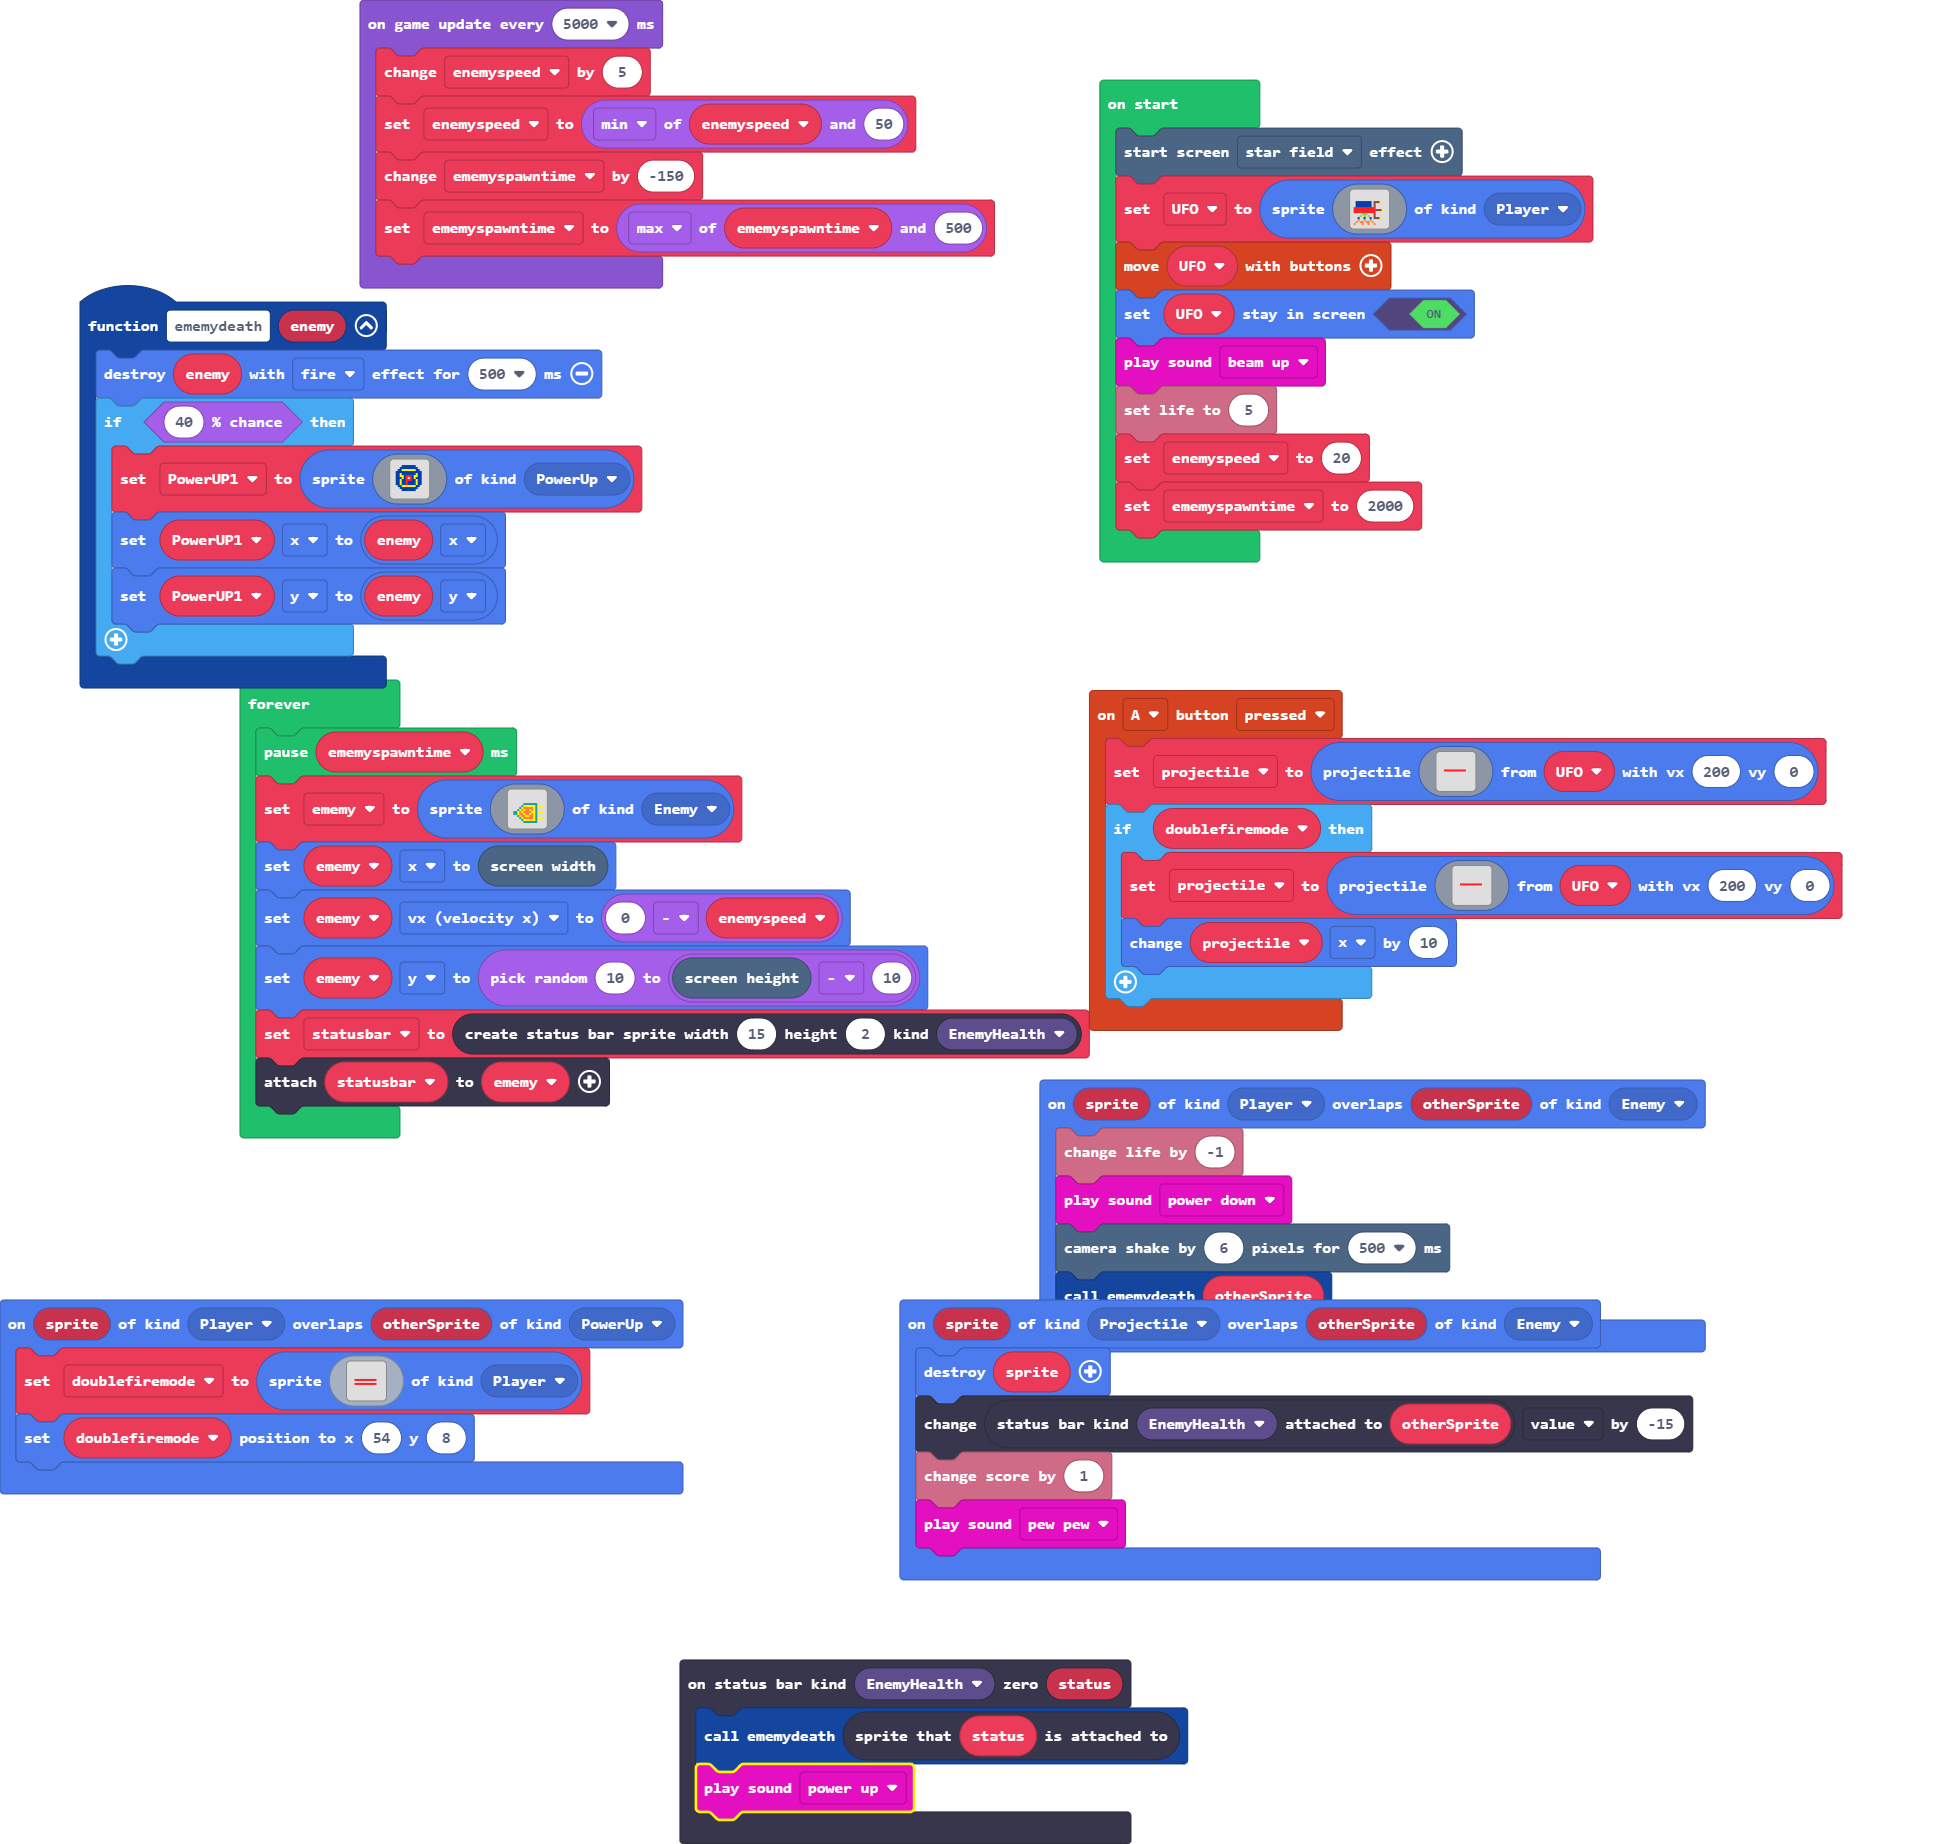
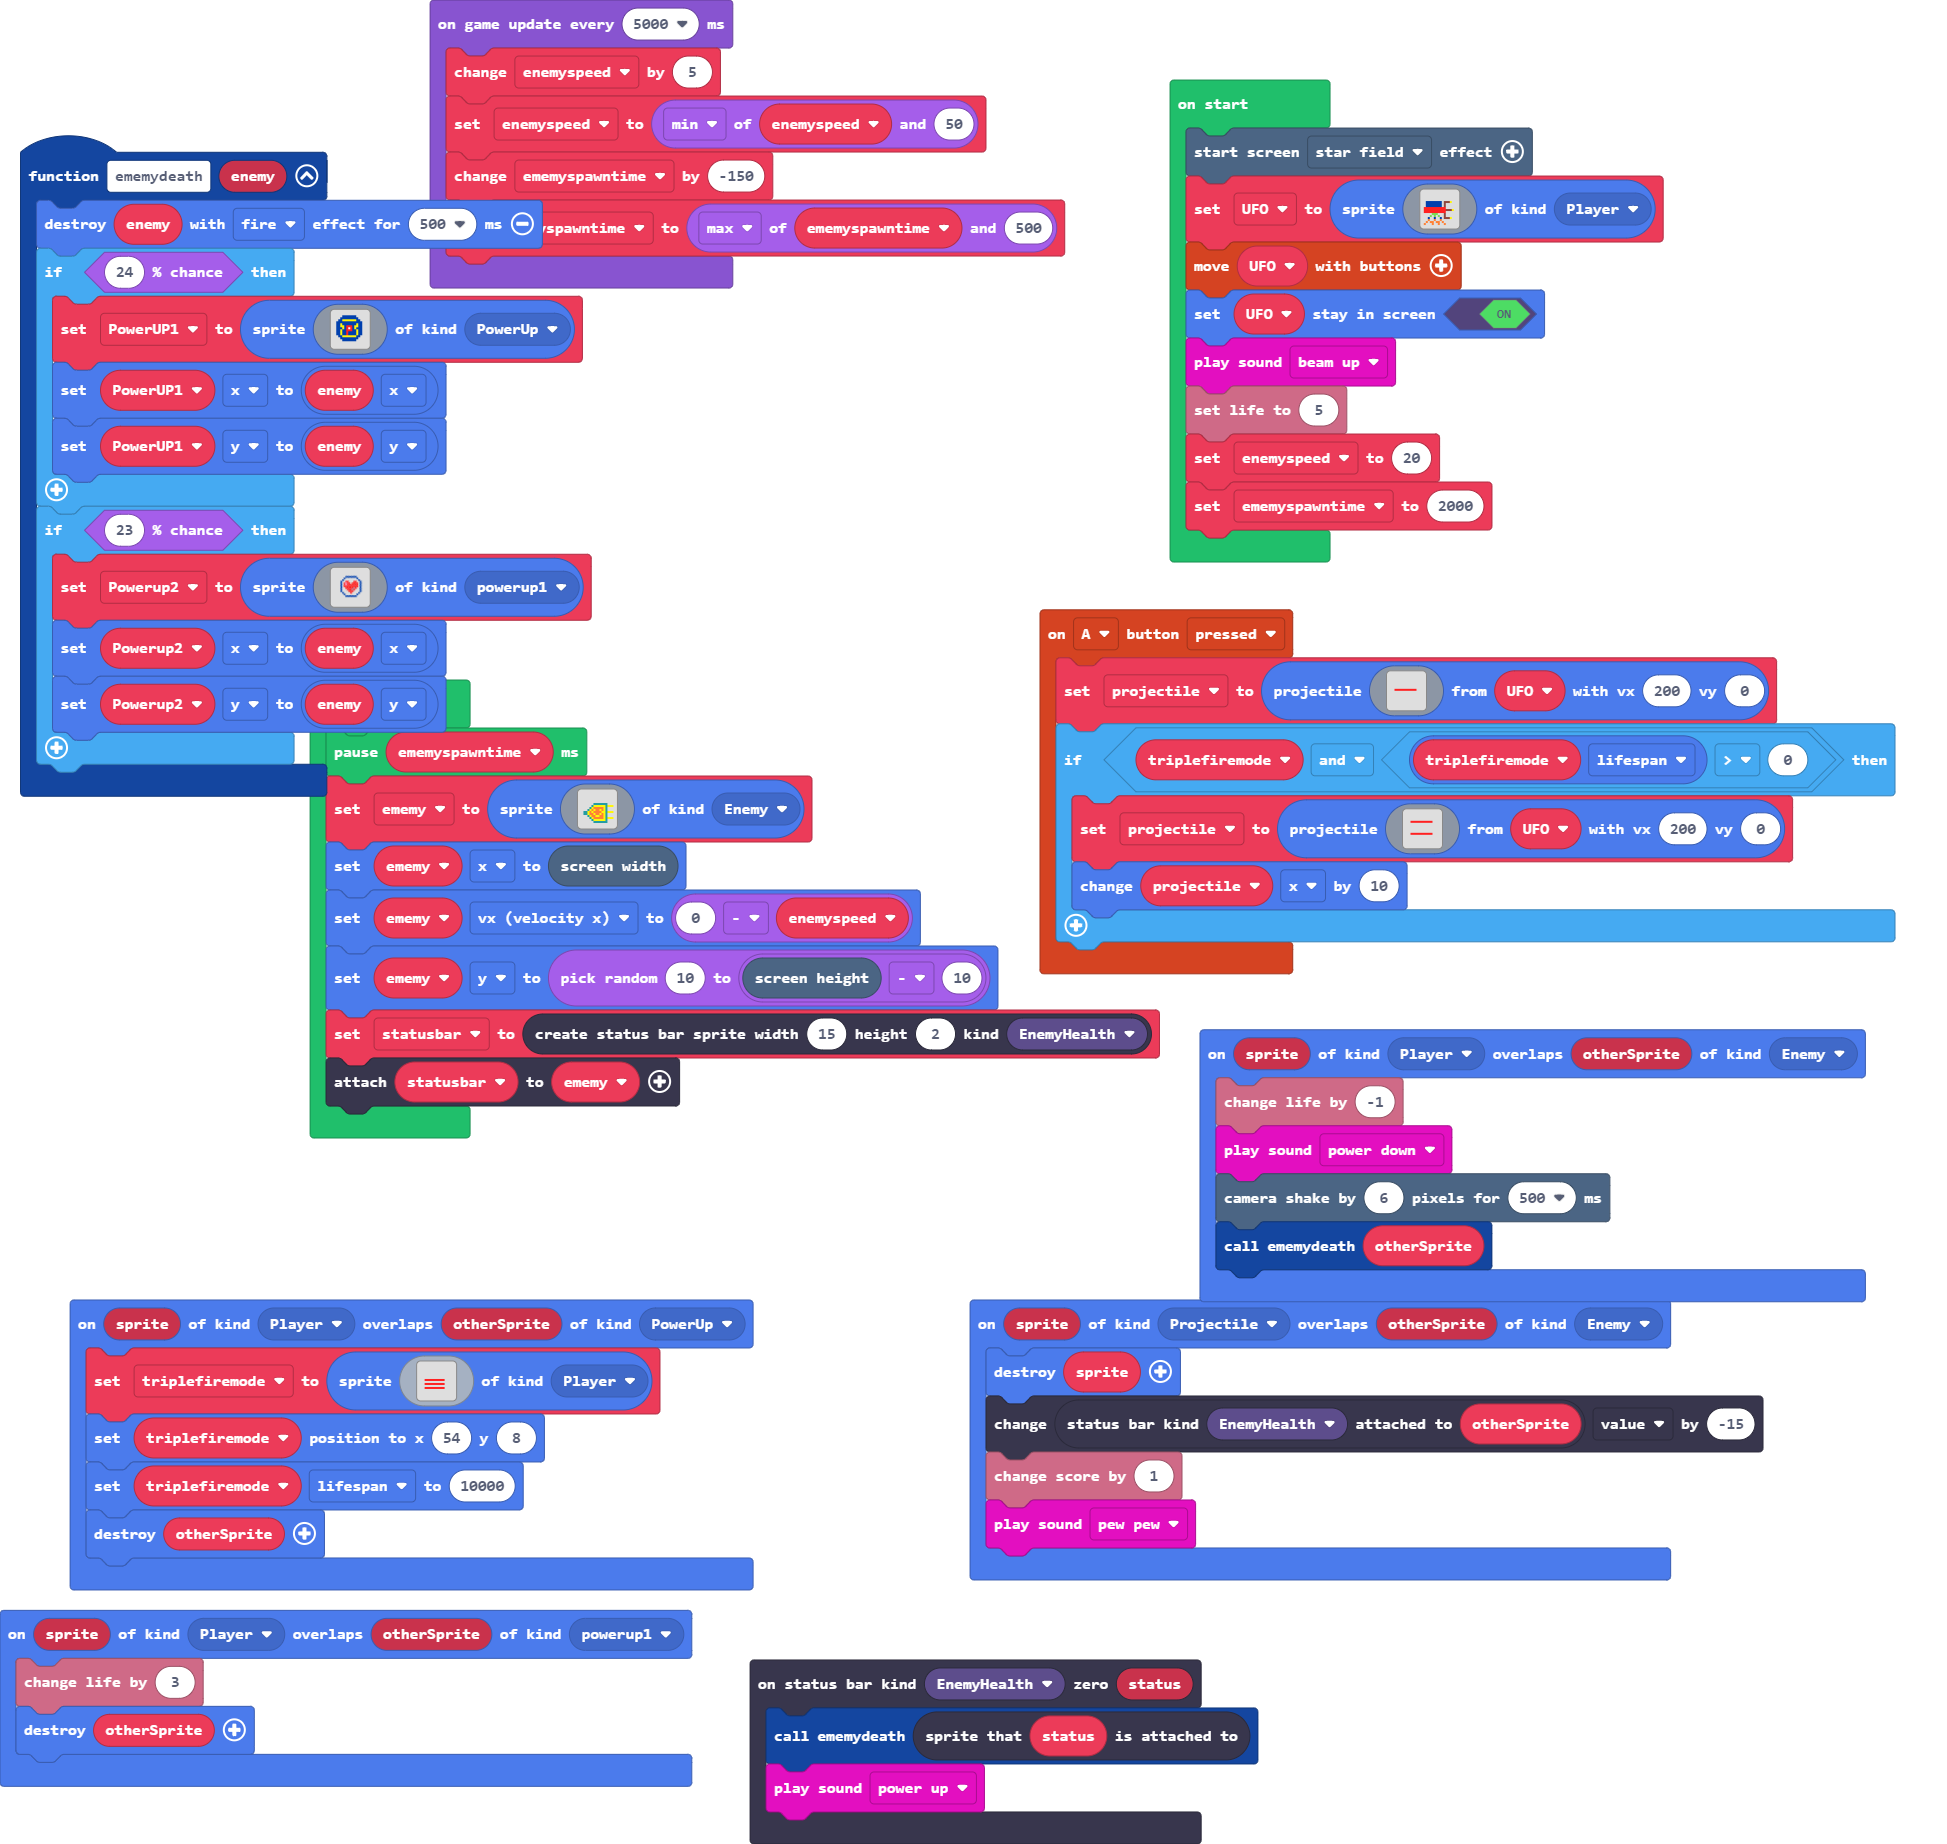
Update main.blocks, main.ts, images.g.jres, images.g.ts

diff --git a/main.ts b/main.ts
@@ -1,12 +1,18 @@
 namespace SpriteKind {
     export const PowerUp = SpriteKind.create()
+    export const powerup1 = SpriteKind.create()
 }
 function ememydeath (enemy: Sprite) {
     enemy.destroy(effects.fire, 500)
-    if (Math.percentChance(40)) {
+    if (Math.percentChance(24)) {
         PowerUP1 = sprites.create(assets.image`powerup`, SpriteKind.PowerUp)
         PowerUP1.x = enemy.x
         PowerUP1.y = enemy.y
+    }
+    if (Math.percentChance(23)) {
+        Powerup2 = sprites.create(assets.image`3 hearts`, SpriteKind.powerup1)
+        Powerup2.x = enemy.x
+        Powerup2.y = enemy.y
     }
 }
 controller.A.onEvent(ControllerButtonEvent.Pressed, function () {
@@ -28,35 +34,24 @@ controller.A.onEvent(ControllerButtonEvent.Pressed, function () {
         . . . . . . . . . . . . . . . . 
         . . . . . . . . . . . . . . . . 
         `, UFO, 200, 0)
-    if (doublefiremode) {
-        projectile = sprites.createProjectileFromSprite(img`
-            . . . . . . . . . . . . . . . . 
-            . . . . . . . . . . . . . . . . 
-            . . . . . . . . . . . . . . . . 
-            . . . . . . . . . . . . . . . . 
-            . . . . . . . . . . . . . . . . 
-            . . . . . . . . . . . . . . . . 
-            . . . . . . . . . . . . . . . . 
-            . . 2 2 2 2 2 2 2 2 2 2 2 . . . 
-            . . . . . . . . . . . . . . . . 
-            . . . . . . . . . . . . . . . . 
-            . . . . . . . . . . . . . . . . 
-            . . . . . . . . . . . . . . . . 
-            . . . . . . . . . . . . . . . . 
-            . . . . . . . . . . . . . . . . 
-            . . . . . . . . . . . . . . . . 
-            . . . . . . . . . . . . . . . . 
-            `, UFO, 200, 0)
+    if (triplefiremode && triplefiremode.lifespan > 0) {
+        projectile = sprites.createProjectileFromSprite(assets.image`Doublebullets`, UFO, 200, 0)
         projectile.x += 10
     }
 })
 sprites.onOverlap(SpriteKind.Player, SpriteKind.PowerUp, function (sprite, otherSprite) {
-    doublefiremode = sprites.create(assets.image`Doublebullets`, SpriteKind.Player)
-    doublefiremode.setPosition(54, 8)
+    triplefiremode = sprites.create(assets.image`bullet`, SpriteKind.Player)
+    triplefiremode.setPosition(54, 8)
+    triplefiremode.lifespan = 10000
+    otherSprite.destroy()
 })
 statusbars.onZero(StatusBarKind.EnemyHealth, function (status) {
     ememydeath(status.spriteAttachedTo())
     music.powerUp.play()
+})
+sprites.onOverlap(SpriteKind.Player, SpriteKind.powerup1, function (sprite, otherSprite) {
+    info.changeLifeBy(3)
+    otherSprite.destroy()
 })
 sprites.onOverlap(SpriteKind.Projectile, SpriteKind.Enemy, function (sprite, otherSprite) {
     sprite.destroy()
@@ -72,8 +67,9 @@ sprites.onOverlap(SpriteKind.Player, SpriteKind.Enemy, function (sprite, otherSp
 })
 let statusbar: StatusBarSprite = null
 let ememy: Sprite = null
-let doublefiremode: Sprite = null
+let triplefiremode: Sprite = null
 let projectile: Sprite = null
+let Powerup2: Sprite = null
 let PowerUP1: Sprite = null
 let UFO: Sprite = null
 effects.starField.startScreenEffect()

diff --git a/images.g.ts b/images.g.ts
@@ -22,25 +22,6 @@ namespace myImages {
 . 4 . 4 4 . 4 4 . 4 . . . . . . 
 4 . . . 4 . . 4 . . 4 . . . . . 
 `;
-            case "image2":
-            case "bullet":return img`
-. . . . . . . . . . . . . . . . 
-. . . . . . . . . . . . . . . . 
-. . . . . . . . . . . . . . . . 
-. . . . . . . . . . . . . . . . 
-. . . . . . . . . . . . . . . . 
-. . . . . . . . . . . . . . . . 
-. . . . . . . . . . . . . . . . 
-. . 2 2 2 2 2 2 2 2 2 2 . . . . 
-. . . . . . . . . . . . . . . . 
-. . 2 2 2 2 2 2 2 2 2 2 . . . . 
-. . . . . . . . . . . . . . . . 
-. . 2 2 2 2 2 2 2 2 2 2 . . . . 
-. . . . . . . . . . . . . . . . 
-. . . . . . . . . . . . . . . . 
-. . . . . . . . . . . . . . . . 
-. . . . . . . . . . . . . . . . 
-`;
             case "image3":
             case "enemy":return img`
 . . . . . . . . . . . . . . . . 
@@ -85,18 +66,60 @@ namespace myImages {
 . . . . . . . . . . . . . . . . 
 . . . . . . . . . . . . . . . . 
 . . . . . . . . . . . . . . . . 
-. . . . . . . . . . . . . . . . 
-. . . . . . . . . . . . . . . . 
-. . . . . . . . . . . . . . . . 
-. . 2 2 2 2 2 2 2 2 2 2 2 . . . 
-. . . . . . . . . . . . . . . . 
 . . 2 2 2 2 2 2 2 2 2 2 2 . . . 
 . . . . . . . . . . . . . . . . 
 . . . . . . . . . . . . . . . . 
 . . . . . . . . . . . . . . . . 
 . . . . . . . . . . . . . . . . 
 . . . . . . . . . . . . . . . . 
+. . 2 2 2 2 2 2 2 2 2 2 2 . . . 
 . . . . . . . . . . . . . . . . 
+. . . . . . . . . . . . . . . . 
+. . . . . . . . . . . . . . . . 
+. . . . . . . . . . . . . . . . 
+. . . . . . . . . . . . . . . . 
+`;
+            case "image2":
+            case "bullet":return img`
+. . . . . . . . . . . . . . . . 
+. . . . . . . . . . . . . . . . 
+. . . . . . . . . . . . . . . . 
+. . . . . . . . . . . . . . . . 
+. . . . . . . . . . . . . . . . 
+. . . . . . . . . . . . . . . . 
+. . . . . . . . . . . . . . . . 
+. . 2 2 2 2 2 2 2 2 2 2 . . . . 
+. . . . . . . . . . . . . . . . 
+. . 2 2 2 2 2 2 2 2 2 2 . . . . 
+. . . . . . . . . . . . . . . . 
+. . 2 2 2 2 2 2 2 2 2 2 . . . . 
+. . . . . . . . . . . . . . . . 
+. . . . . . . . . . . . . . . . 
+. . . . . . . . . . . . . . . . 
+. . . . . . . . . . . . . . . . 
+`;
+            case "image6":
+            case "3 hearts":return img`
+....................
+....................
+....................
+.......8888888......
+......8.......8.....
+.....8.........8....
+....8..22...22..8...
+....8.2322.2222.8...
+....8.232222222.8...
+....8.222222222.8...
+....8..22222b2..8...
+....8...222b2...8...
+....8....222....8...
+.....8....2....8....
+......8.......8.....
+.......8888888......
+....................
+....................
+....................
+....................
 `;
         }
         return null;
